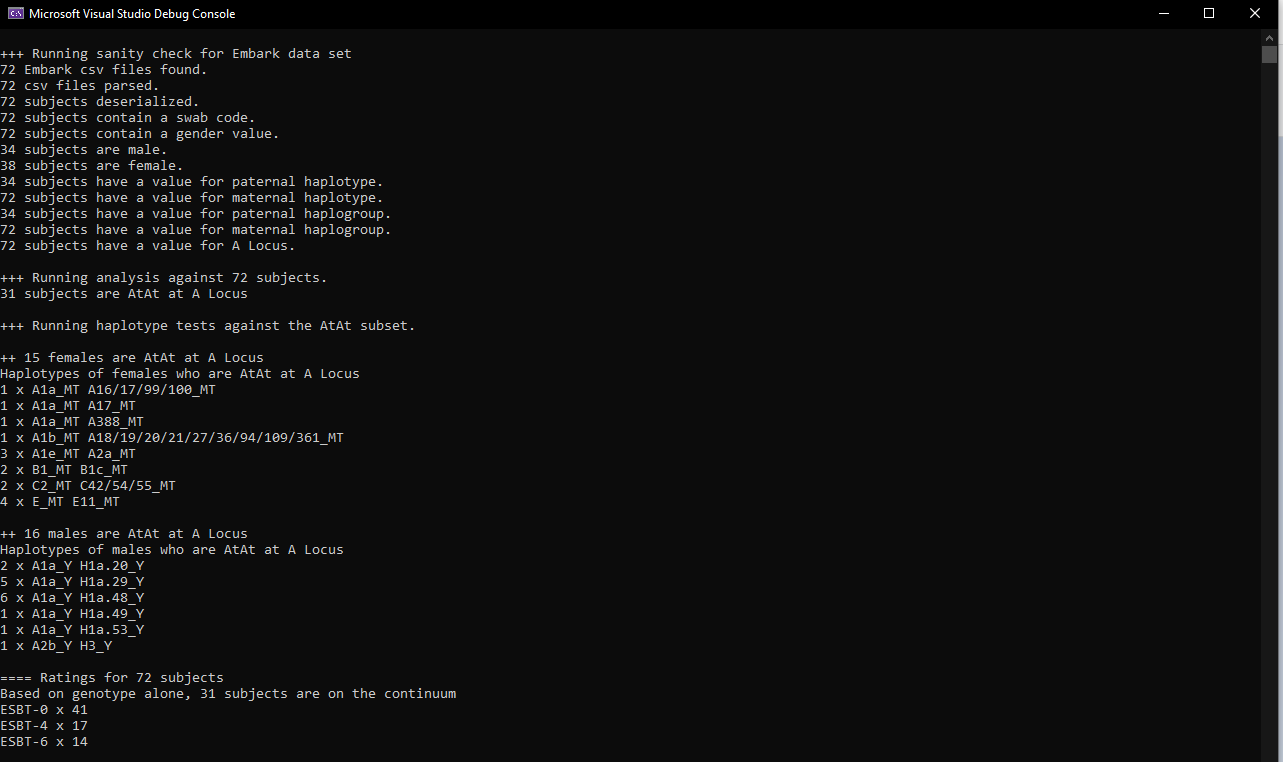
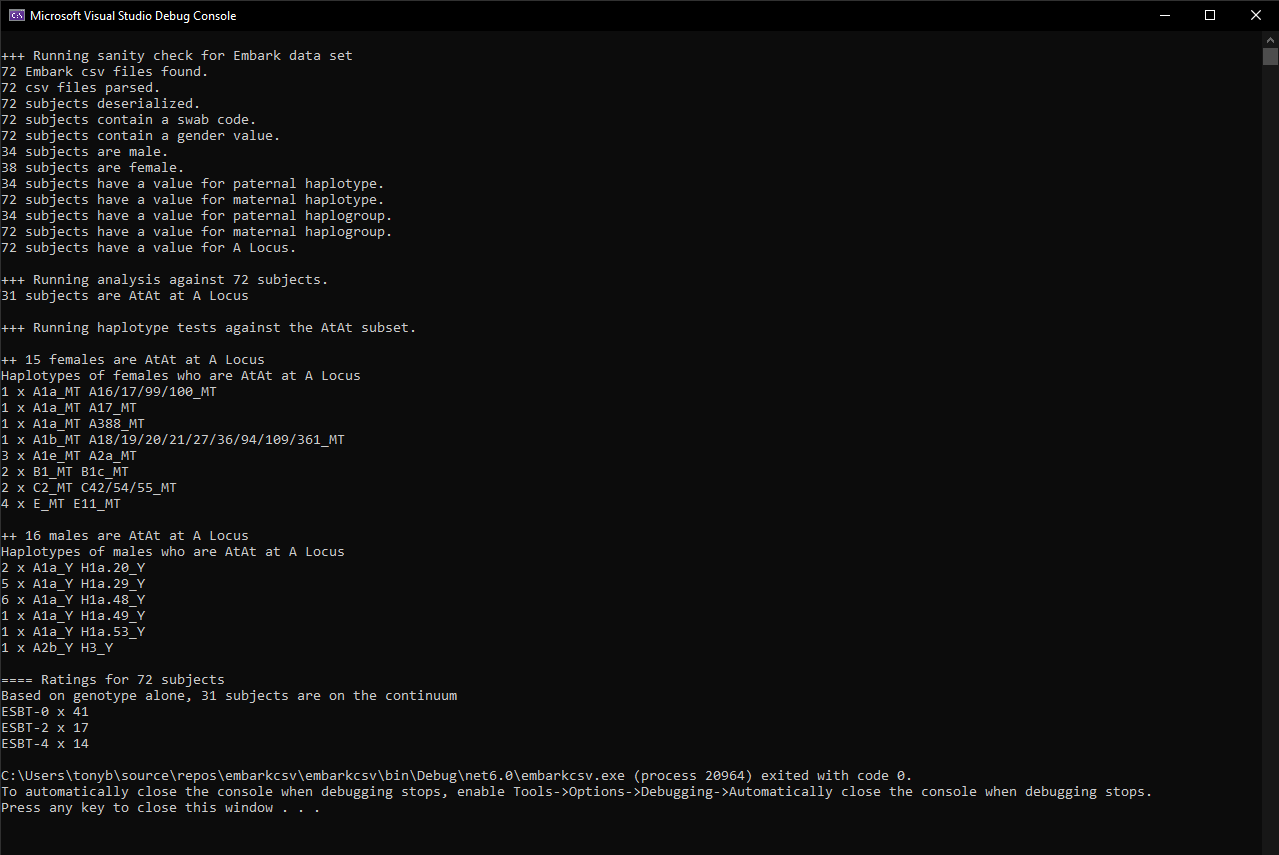
scoring bugfix, new screen shot

diff --git a/embarkcsv/Program.cs b/embarkcsv/Program.cs
@@ -117,9 +117,6 @@ namespace EmbarkCsv
             // Score females for AtAt && PTA control variable
             foreach (var s in queryFemales.ToList())
             {
-                // For AtAt at A Locus
-                s.X = s.X + 2;
-
                 // For MTA control variable
                 if (s.HaplotypeToTest() == "A1a_MT A388_MT" ||
                    s.HaplotypeToTest() == "A1d_MT A247_MT" ||
@@ -151,9 +148,6 @@ namespace EmbarkCsv
             // Score males for AtAt && PTA control variable
             foreach (var s in queryMales.ToList())
             {
-                // For AtAt at A Locus
-                s.X = s.X + 2;
-
                 // For PTA control variable
                 if (s.HaplotypeToTest() == "A1a_Y H1a.29_Y" ||
                    s.HaplotypeToTest() == "A1a_Y H1a.48_Y")
